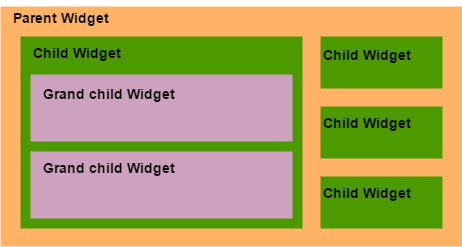
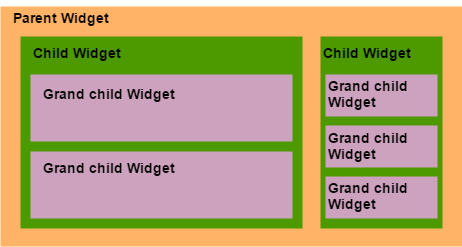
more writing

Changed region(s): [[0.6667, 0.2834, 0.9697, 0.9069], [0.697, 0.1984, 0.9091, 0.2551]]

diff --git a/Rapport/Standardfiler/TechnicalChapterQT.tex b/Rapport/Standardfiler/TechnicalChapterQT.tex
@@ -1,7 +1,7 @@
 \section{Qt}
 %short introduction to the chapter
 Qt, pronounced "cute", is an open source cross-platform framework, mostly used for GUI(graphical user interface) programming. Qt has an easy to (re)use API(application programming interface), which in return gives high developer productivity. QT is C++ class library, hence new developers using Qt should have some understanding of C++.
-This chapter introduces terminologies used in Qt, and tries to give some general insight to how Qt operates and works regarding GUI development.  
+This chapter introduces terminologies used in Qt, and tries to give some general insight to how Qt operates and works regarding GUI development. For more information please refer to \citep{Qt Documentation}.
 
 %Maybe something about licencing and version used.
 
@@ -55,7 +55,7 @@ QMainWindow is a subclass of QWidget, and is very essential to a Qt GUI applicat
 \begin{figure}[h]
 	\centering
 	\includegraphics[scale=0.55]{Figures/QMainWindowExample.png}
-	\caption{}
+	\caption{This figure shows how a QMainWindow object looks like. RWS uses QMainWindow as the main application widget.}
 	\label{fig:QMainWindowExample}
 \end{figure}
 
@@ -63,9 +63,31 @@ QMainWindow is usually a good class to use as the framework for an GUI applicati
 
 \subsubsection{QLayout}
 \label{sec:QLayout}
-Arrange child widgets within a widget
-Updates when contents change
-QHBoxLayout example. CODE AND PICTURE OF LAYOUT
+QLayout is a subclass of QObject and QLayoutItem and is the base class of geometry managers. QLaoyt and it's subclasses are managers for the layout of a group of widget laid out in an application. All QWidget subclasses can use layouts to manage it's children e.g. figure~\ref{fig:QWidgetExample} uses the parent widget as composite widget with two composite children. The parent on figure~\ref{fig:QWidgetExample} use a QHBoxLayout, which lines the child widgets horizontally and makes each child fill one box. The children then has their own QVBoxLayout, which lines their children (grand children) vertically and assign each of those their own box as well. Figure~\ref{fig:QLayoutCode} shows how an implementation of five arbitrary widgets laid in the layout as in figure~\ref{fig:QWidgetExample}.
+
+\begin{figure}[h]
+\centering
+\lstset{language=C++} 
+\begin{lstlisting}[frame=single]  
+QWidget* parent = new QWidget();  			//Parent widget
+QHBoxLayout* pL = new QHBoxLayout();		//Layout of the parent widget
+QWidget* cL = new QWidget(parent); 			//Left child widget
+QVBoxLayout* cLL = new QHBoxLayout();		//Layout of left child widget
+QWidget* cR = new QWidget(parent); 			//Right child widget
+QVBoxLayout* cRL = new QHBoxLayout();		//Layout of right child widget
+pL->addWidget(cR); pL->addWidget(cR);		//add children to layout
+parent->setLayout(pL);						//set layout
+QWidget* b1 = new QWidget(cL), b2 = new QWidget(cL), b3 = new QWidget(cR),
+		 b4 = new QWidget(cR), b5 = new QWidget(cR); //create grandchildren
+cLL->addWidget(b1), cLL->addWidget(b2);	//grand children added to layout
+cL->setLayout(cLL);					//set layout
+cRL->addWidget(b3), cRL->addWidget(b3), cRL->addWidget(b5);				 
+cR->setLayout(cRL);			 
+\end{lstlisting}
+\caption{write stuff}
+\label{fig:QLayoutCode} 	
+\end{figure}
+
 
 \subsection{Signal and Slots}
 \label{sec:signalandslots}
@@ -75,9 +97,6 @@ Signal and slots -> connect() RET TO FIGURE
 Signal -> 
 Slot -> normal function (only special thing is it can be connected to a signal) -> found by moc
 \subsubsection{Difference between events and Signal/Slots}
-
-
-\subsection{Subclassing}
 
 \subsection{Plug-in}
 \label{sec:plugin}

diff --git a/Rapport/Main.tex b/Rapport/Main.tex
@@ -33,9 +33,6 @@
 \setcounter{page}{1}
 \input{Standardfiler/Introduction}
 
-\input{Standardfiler/Chapter1}
-\clearpage
-
 \input{Standardfiler/RobWork_library_and_its_functionalities}
 \clearpage
 
